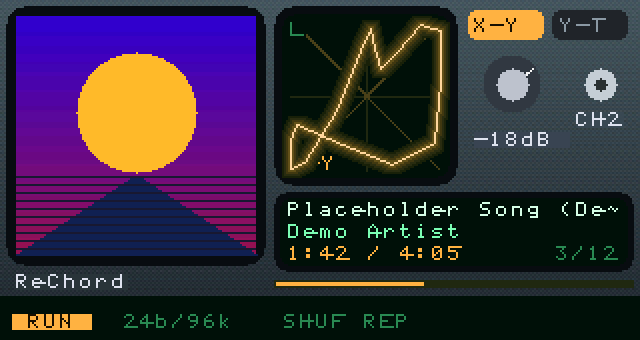
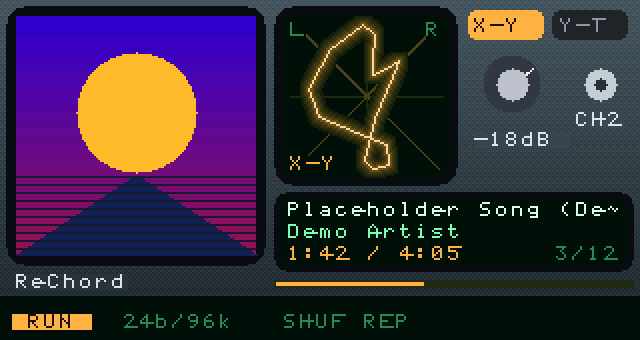
feat(theme): glow meter + correct goniometer mid/side mapping
Companion Bot 2's background twinkles were flat 2x2 fills. Add a `glow`
meter (a fill with the scope trace's own phosphor falloff: shared
k_glow_r/k_glow_w ramps, disc halo, white-hot core), so a star reads as
light with the same bloom as the OSC theme instead of a lookalike.

The home skin now lights them from the audio tap: one always twinkles and
the rest join above 400/650/850 of 1000, so the sky fills with loudness.

Fix the stereo-spread goniometer (oscilloscope + its OSC-60 option, same
now_playing.skin): `ch=xy` plotted raw L on X / R on Y, but the skins draw
the L and R axes as the diagonals, so a hard-left signal landed on a flat
horizontal line through the middle — "left reads as mid". Plot mid
(L+R)/2 vertically and side (L-R)/2 horizontally instead: L alone leans
onto the upper-left diagonal, R onto the upper-right, mono stays a
vertical line and antiphase a horizontal one. The /2 keeps a correlated
signal inside the tube.

Two regressions in test_skin_engine (goniometer tilt, glow core+halo and
visible=0), engine revision bumped to 5, docs and the two OSC screenshots
that contained the old goniometer refreshed.

Changed region(s): [[0.4375, 0.0588, 0.7188, 0.5294]]

diff --git a/firmware/theme/theme_skin.c b/firmware/theme/theme_skin.c
@@ -1531,7 +1531,9 @@ static void skin_triangle(int x1, int y1, int x2, int y2, int x3, int y3,
 
 /* Scope trace: the audio tap's waveform drawn as a smooth, glowing line.
  * ch=l|r is a time trace across x (eased between points, so 48 samples look
- * like a curve on a 190 px screen); ch=xy plots L against R (Lissajous).
+ * like a curve on a 190 px screen); ch=xy is a goniometer: mid (L+R) on Y and
+ * side (L-R) on X, so a hard-left signal leans onto the upper-left diagonal
+ * the skins label "L" and a hard-right one onto "R".
  * Glow is a wider dim pass drawn first, the core 1 px line on top. `gain` is a
  * permille amplitude multiplier (skins fold the volume in). */
 static int scope_y(int v, int gain, int y, int h)
@@ -1581,6 +1583,44 @@ static uint16_t mix565(uint16_t a, uint16_t b, int w)
     return (uint16_t)((r << 11) | (g << 5) | bl);
 }
 
+/* Phosphor falloff shared by the scope trace and glowing fills: radius and
+ * halo weight (of the core colour over `bg`) per pass, core last. */
+static const short k_glow_r[7] = { 7, 5, 4, 3, 2, 1, 0 };
+/* Steep falloff: a thin bright core with a faint bloom reads as light; a
+ * bright halo reads as a fat line. */
+static const short k_glow_w[7] = { 22, 45, 80, 130, 200, 310, 1000 };
+
+/* Halo around a filled rect, same falloff as the scope trace so a glowing dot
+ * reads like the phosphor. `glow` is the strength in permille (1000 = the
+ * scope's default), `halo` the number of widening passes (1..6). The halo
+ * passes are discs (a square bloom around a 2 px dot reads as a box); the core
+ * pass is drawn LAST and unrounded so the dot keeps its shape. Draws OUTSIDE
+ * x..x+w-1 / y..y+h-1 by up to 7 px, so the caller's flush band must cover
+ * the halo. */
+static void skin_glow_rect(int x, int y, int w, int h, uint16_t core,
+                           uint16_t bg, int glow, int halo)
+{
+    int pass;
+
+    if (w <= 0 || h <= 0)
+        return;
+    if (halo < 1)
+        halo = 1;
+    if (halo > 6)
+        halo = 6;
+    for (pass = 6 - halo; pass < 7; pass++) {
+        int wt = pass == 6 ? 1000 : k_glow_w[pass] * glow / 1000;
+        int r = k_glow_r[pass];
+        uint16_t col = pass == 6 ? mix565(core, 0xFFFF, 480)
+                                 : mix565(core, bg, wt > 950 ? 950 : wt);
+
+        if (pass == 6)
+            display_fill_rect(x, y, x + w - 1, y + h - 1, col);
+        else
+            skin_roundrect(x - r, y - r, w + 2 * r, h + 2 * r, r + 1, col);
+    }
+}
+
 /* `glow` is the halo strength in permille (1000 = default): three widening
  * passes (up to 11..3 px wide, `halo`=1..6 passes, outer radius up to 7) fade from the
  * core colour into `bg`, so the line bleeds light into the tube. The caller
@@ -1591,10 +1631,6 @@ __attribute__((noinline)) static void skin_scope(
     const theme_skin_state_t *st, uint16_t core, uint16_t bg, int glow,
     int halo)
 {
-    static const short k_r[7] = { 7, 5, 4, 3, 2, 1, 0 };
-    /* Steep falloff: a thin bright core with a faint bloom reads as light; a
-     * bright halo reads as a fat line. */
-    static const short k_w[7] = { 22, 45, 80, 130, 200, 310, 1000 };
     const short *a, *b;
     int n, pass, i;
     int xy = ch != 0 && key_eq(ch, "xy");
@@ -1610,9 +1646,9 @@ __attribute__((noinline)) static void skin_scope(
     if (halo < 1) halo = 1;
     if (halo > 6) halo = 6;
     for (pass = 6 - halo; pass < 7; pass++) {
-        int wt = pass == 6 ? 1000 : k_w[pass] * glow / 1000;
+        int wt = pass == 6 ? 1000 : k_glow_w[pass] * glow / 1000;
         uint16_t col;
-        int r = k_r[pass];
+        int r = k_glow_r[pass];
         int px = 0, py = 0;
 
         if (wt > 950)
@@ -1620,12 +1656,24 @@ __attribute__((noinline)) static void skin_scope(
         /* hot core: phosphor burns whiter at its centre than in its halo */
         col = pass == 6 ? mix565(core, 0xFFFF, 480) : mix565(core, bg, wt);
         if (xy) {
+            /* Goniometer: mid (L+R)/2 on Y, side (L-R)/2 on X — not raw L/R.
+             * The skins draw their L and R axes as the two diagonals, so L
+             * alone has to lean onto the upper-left one and R alone onto the
+             * upper-right; raw L/R put a hard-left signal on a flat horizontal
+             * line, which reads as "mid". The /2 keeps a correlated (mono)
+             * signal inside the box instead of pinning it to the top. */
+            int cxm = x + w / 2, cym = y + h / 2;
+
             for (i = 0; i < n; i++) {
-                int cx = x + w / 2 + (a[i] * gain / 1000) * (w / 2) / 1000;
-                int cy = scope_y(b[i], gain, y, h);
+                int mid = (a[i] + b[i]) * gain / 2000;
+                int side = (a[i] - b[i]) * gain / 2000;
+                int cx = cxm - side * (w / 2) / 1000;
+                int cy = cym - mid * (h / 2) / 1000;
 
                 if (cx < x) cx = x;
                 if (cx > x + w - 1) cx = x + w - 1;
+                if (cy < y) cy = y;
+                if (cy > y + h - 1) cy = y + h - 1;
                 if (i > 0)
                     scope_line(px, py, cx, cy, r, col);
                 px = cx;
@@ -1963,6 +2011,26 @@ static void render_section(const skin_section_t *sec, skin_ctx_t *ctx, int sel)
         display_fill_rect(x, y, x + w - 1, y + h - 1,
                           color_of(prop(sec, "color"), ctx,
                                    theme_get()->text));
+        return;
+    }
+
+    /* `glow`: a filled rect with the scope trace's phosphor halo, so a star or
+     * a dot can read as light. `color`/`bg` are the core and what it bleeds
+     * into (default: the palette background), `glow` the strength in permille,
+     * `halo` the pass count (1..6). Defaults are stronger than the scope's so a
+     * 2 px star still reads at 1:1 on the device. The halo extends up to 7 px
+     * past the rect, so give the meter's dyn band that much slack. */
+    if (key_eq(type, "glow")) {
+        x = eval_int(prop(sec, "x"), ctx, 0);
+        y = eval_int(prop(sec, "y"), ctx, 0);
+        w = eval_int(prop(sec, "w"), ctx, 2);
+        h = eval_int(prop(sec, "h"), ctx, 2);
+        skin_glow_rect(x, y, w, h,
+                       color_of(prop(sec, "color"), ctx, theme_get()->text),
+                       color_of(prop(sec, "bg"), ctx,
+                                theme_get()->background),
+                       eval_int(prop(sec, "glow"), ctx, 3000),
+                       eval_int(prop(sec, "halo"), ctx, 5));
         return;
     }
 

diff --git a/firmware/ui/tests/test_skin_engine.c b/firmware/ui/tests/test_skin_engine.c
@@ -306,6 +306,85 @@ void test_skin_engine(void)
         (void)remove("rechord_scope.skin");
     }
 
+    /* ---- goniometer: L leans onto the L diagonal, not through the middle --- */
+    {
+        FILE *fg = fopen("rechord_xy.skin", "w");
+        static const short sine_l[8] = { 0, 700, 1000, 700, 0,
+                                         -700, -1000, -700 };
+        static const short flat[8] = { 0, 0, 0, 0, 0, 0, 0, 0 };
+        theme_skin_state_t gs;
+        int i, n, minx = 9999, maxx = -9999, miny = 9999, maxy = -9999;
+        int topx = -1, botx = -1;
+
+        if (fg != 0) {
+            fputs("[s]\ntype=scope\nx=0\ny=0\nw=80\nh=80\nch=xy\n"
+                  "gain=1000\ncolor=65535\nhalo=1\nglow=0\n", fg);
+            fclose(fg);
+        }
+        memset(&gs, 0, sizeof gs);
+        gs.playing = 1;
+        gs.wave_l = sine_l;
+        gs.wave_r = flat;
+        gs.wave_n = 8;
+        CHECK_EQ_INT(theme_skin_load(".", "", "rechord_xy.skin"), 0);
+        mock_display_reset();
+        theme_skin_render(0, 0, 0, 0, &gs);
+        /* Left-only must be the upper-left -> lower-right DIAGONAL. Plotting
+         * raw L on X / R on Y drew a flat horizontal line through the middle
+         * (the "left reads as mid" report), which spans no rows at all. */
+        n = mock_display_rect_count();
+        for (i = 0; i < n; i++) {
+            const mock_rect_t *r = mock_display_rect(i);
+
+            if (r->x0 < minx) minx = r->x0;
+            if (r->x1 > maxx) maxx = r->x1;
+            if (r->y0 < miny) miny = r->y0;
+            if (r->y1 > maxy) maxy = r->y1;
+            if (r->y0 <= miny + 1) topx = (r->x0 + r->x1) / 2;
+            if (r->y1 >= maxy - 1) botx = (r->x0 + r->x1) / 2;
+        }
+        CHECK(maxy - miny > 30);         /* it is not a flat line            */
+        CHECK(maxx - minx > 30);
+        CHECK(topx >= 0 && topx < 40);   /* L peak leans upper-LEFT          */
+        CHECK(botx >= 0 && botx > 40);   /* ... and its trough lower-right   */
+        (void)remove("rechord_xy.skin");
+    }
+
+    /* ---- glow meter: core plus halo, still nothing when invisible --------- */
+    {
+        FILE *fgl = fopen("rechord_glow.skin", "w");
+        theme_skin_state_t es;
+
+        if (fgl != 0) {
+            fputs("[a]\ntype=glow\nx=40\ny=40\nw=2\nh=2\ncolor=65535\n"
+                  "[b]\ntype=glow\nx=100\ny=100\nw=2\nh=2\ncolor=65535\n"
+                  "visible=0\n", fgl);
+            fclose(fgl);
+        }
+        memset(&es, 0, sizeof es);
+        CHECK_EQ_INT(theme_skin_load(".", "", "rechord_glow.skin"), 0);
+        mock_display_reset();
+        theme_skin_render(0, 0, 0, 0, &es);
+        {
+            int i, n = mock_display_rect_count();
+            int core = 0, halo = 0;
+
+            for (i = 0; i < n; i++) {
+                const mock_rect_t *r = mock_display_rect(i);
+
+                if (r->x0 == 40 && r->y0 == 40 && r->x1 == 41 && r->y1 == 41)
+                    core++;
+                if (r->x0 < 40 || r->x1 > 41 || r->y0 < 40 || r->y1 > 41)
+                    halo++;
+                /* nothing may reach the `visible=0` meter */
+                CHECK(r->x1 < 90);
+            }
+            CHECK_EQ_INT(core, 1);
+            CHECK(halo >= 3);              /* widening passes around the dot   */
+        }
+        (void)remove("rechord_glow.skin");
+    }
+
 
     (void)remove("rechord_engine.skin");
     (void)remove("rechord_dyn.skin");

diff --git a/firmware/theme/theme_skin.h b/firmware/theme/theme_skin.h
@@ -35,8 +35,9 @@
 #define THEME_SKIN_ITEMS_MAX 4
 
 /* Interpreter revision, logged at boot so a device can prove which engine is
- * running (v2 = vector roundrect/triangle + [vars]). */
-#define THEME_SKIN_ENGINE 4
+ * running (v2 = vector roundrect/triangle + [vars]; v4 = per-screen skins and
+ * the scope; v5 = `glow` meter and the mid/side goniometer mapping). */
+#define THEME_SKIN_ENGINE 5
 
 /* Key codes match input_key_t (services/input.h) without pulling it in. */
 enum {

diff --git a/themes/README.md b/themes/README.md
@@ -196,6 +196,7 @@ Meter types:
 | `text` | `x y text color bg [maxc] [align]` (`maxc` -> `~` cut, `align=right`) |
 | `bar` | `x y w h value max color bg` |
 | `list` | `axis x y height selected rows source prev next item0..item3` |
+| `glow` | `x y w h color [bg] [glow] [halo]` (fill + the scope trace's phosphor halo; `halo` 1..6 reaches up to 7 px past the rect) |
 
 Any meter can set `visible=<expr>` to skip drawing. A `[vars]` section defines
 named expressions reused by meters (bounded recursion), which keeps complex
@@ -276,8 +277,11 @@ working example.
 eyes, blink, sleep and happy-lid logic). Eyes are layered (rim, body, gloss)
 and take the cover's `art_accent` (cyan without art, `danger` red below 15 %
 battery). While playing it adds blush, a rising note and five bars driven by
-`lvl_l`/`lvl_r` (they bounce on a floor level if the audio tap is absent). Idle
-for 6 s: line eyes and a drifting "z Z". It sits at ~3.96 KB of the 4 KiB
+`lvl_l`/`lvl_r` (they bounce on a floor level if the audio tap is absent). The
+five background stars are `glow` meters (the scope's phosphor halo), and how
+many are lit follows the level: one always twinkles, the rest join above
+~300/650/850 of 1000, so the sky fills up as the music gets louder. Idle
+for 6 s: line eyes and a drifting "z Z". It sits at ~4.0 KB of the 4 KiB
 home-skin budget, so the shipped `home.skin` has no whitespace inside
 expressions and almost no comments.
 

diff --git a/docs/THEMING.md b/docs/THEMING.md
@@ -317,6 +317,7 @@ item2=SETTINGS:settings
 | type | properties |
 |---|---|
 | `fill` | `x y w h color` |
+| `glow` | `x y w h color [bg] [glow] [halo]` (a filled rect with the scope trace's phosphor halo: `color` is the core, `bg` what it bleeds into, `glow` strength in permille, `halo` passes 1..6; the halo reaches up to 7 px past the rect) |
 | `roundrect` | `x y w h r color` (filled, true corner arcs) |
 | `triangle` | `x1 y1 x2 y2 x3 y3 color` (filled; degenerate = no draw) |
 | `gradient` | `x y w h from to dir` (two RGB565 colours; `dir=vertical` or `diagonal`; 4x4 ordered dithering hides RGB565 banding; draws only inside the rect) |
@@ -324,6 +325,7 @@ item2=SETTINGS:settings
 | `art` | `x y size` (`small`\|`large`) `color` (placeholder tint, default `surface`) |
 | `text` | `x y text color bg [maxc] [align]` (`maxc` cuts to N chars ending in `~`; `align=right` makes `x` the right edge) |
 | `bar` | `x y w h value max color bg` |
+| `scope` | `x y w h ch gain color [halo] [glow]` (live trace: `ch=l`/`r` is a time sweep, `ch=xy` a goniometer — mid `(L+R)/2` on Y, side `(L-R)/2` on X, so L alone leans onto the upper-left diagonal) |
 | `list` | `axis x y height selected rows source prev next item0..item3` |
 
 Any meter may set `visible=<expr>`; a false value skips it.

diff --git a/docs/themes/oscilloscope/README.md b/docs/themes/oscilloscope/README.md
@@ -58,9 +58,12 @@ literals only: the expression parser has no `0x` numbers.
   lamp, battery and BNC > engine list. 49 sections.
 * **Now Playing** — the cover is "CH2" on the left; the right tube is a
   goniometer: a 48x40 dense X-Y scribble jittered +-2 px with two bright beam
-  slivers, L/R axes and a centred dot when paused. A dark readout window
-  carries title/artist/time/playlist, a progress strip runs underneath, and
-  the status bar shows RUN/STOP + format + SHUF/REP.
+  slivers, L/R axes and a centred dot when paused. It plots mid `(L+R)/2` on
+  the vertical axis and side `(L-R)/2` on the horizontal one, so a signal only
+  in one channel leans onto that channel's diagonal (`L` upper-left, `R`
+  upper-right) instead of collapsing onto the centre line. A dark readout
+  window carries title/artist/time/playlist, a progress strip runs underneath,
+  and the status bar shows RUN/STOP + format + SHUF/REP.
 * **Library / category** — instrument menu (`MENU > LIBRARY`, or
   `MENU > <category>`), position counter, mini sweep line, header knob.
 * **Browser** — same instrument frame with `MENU > <path>`.
